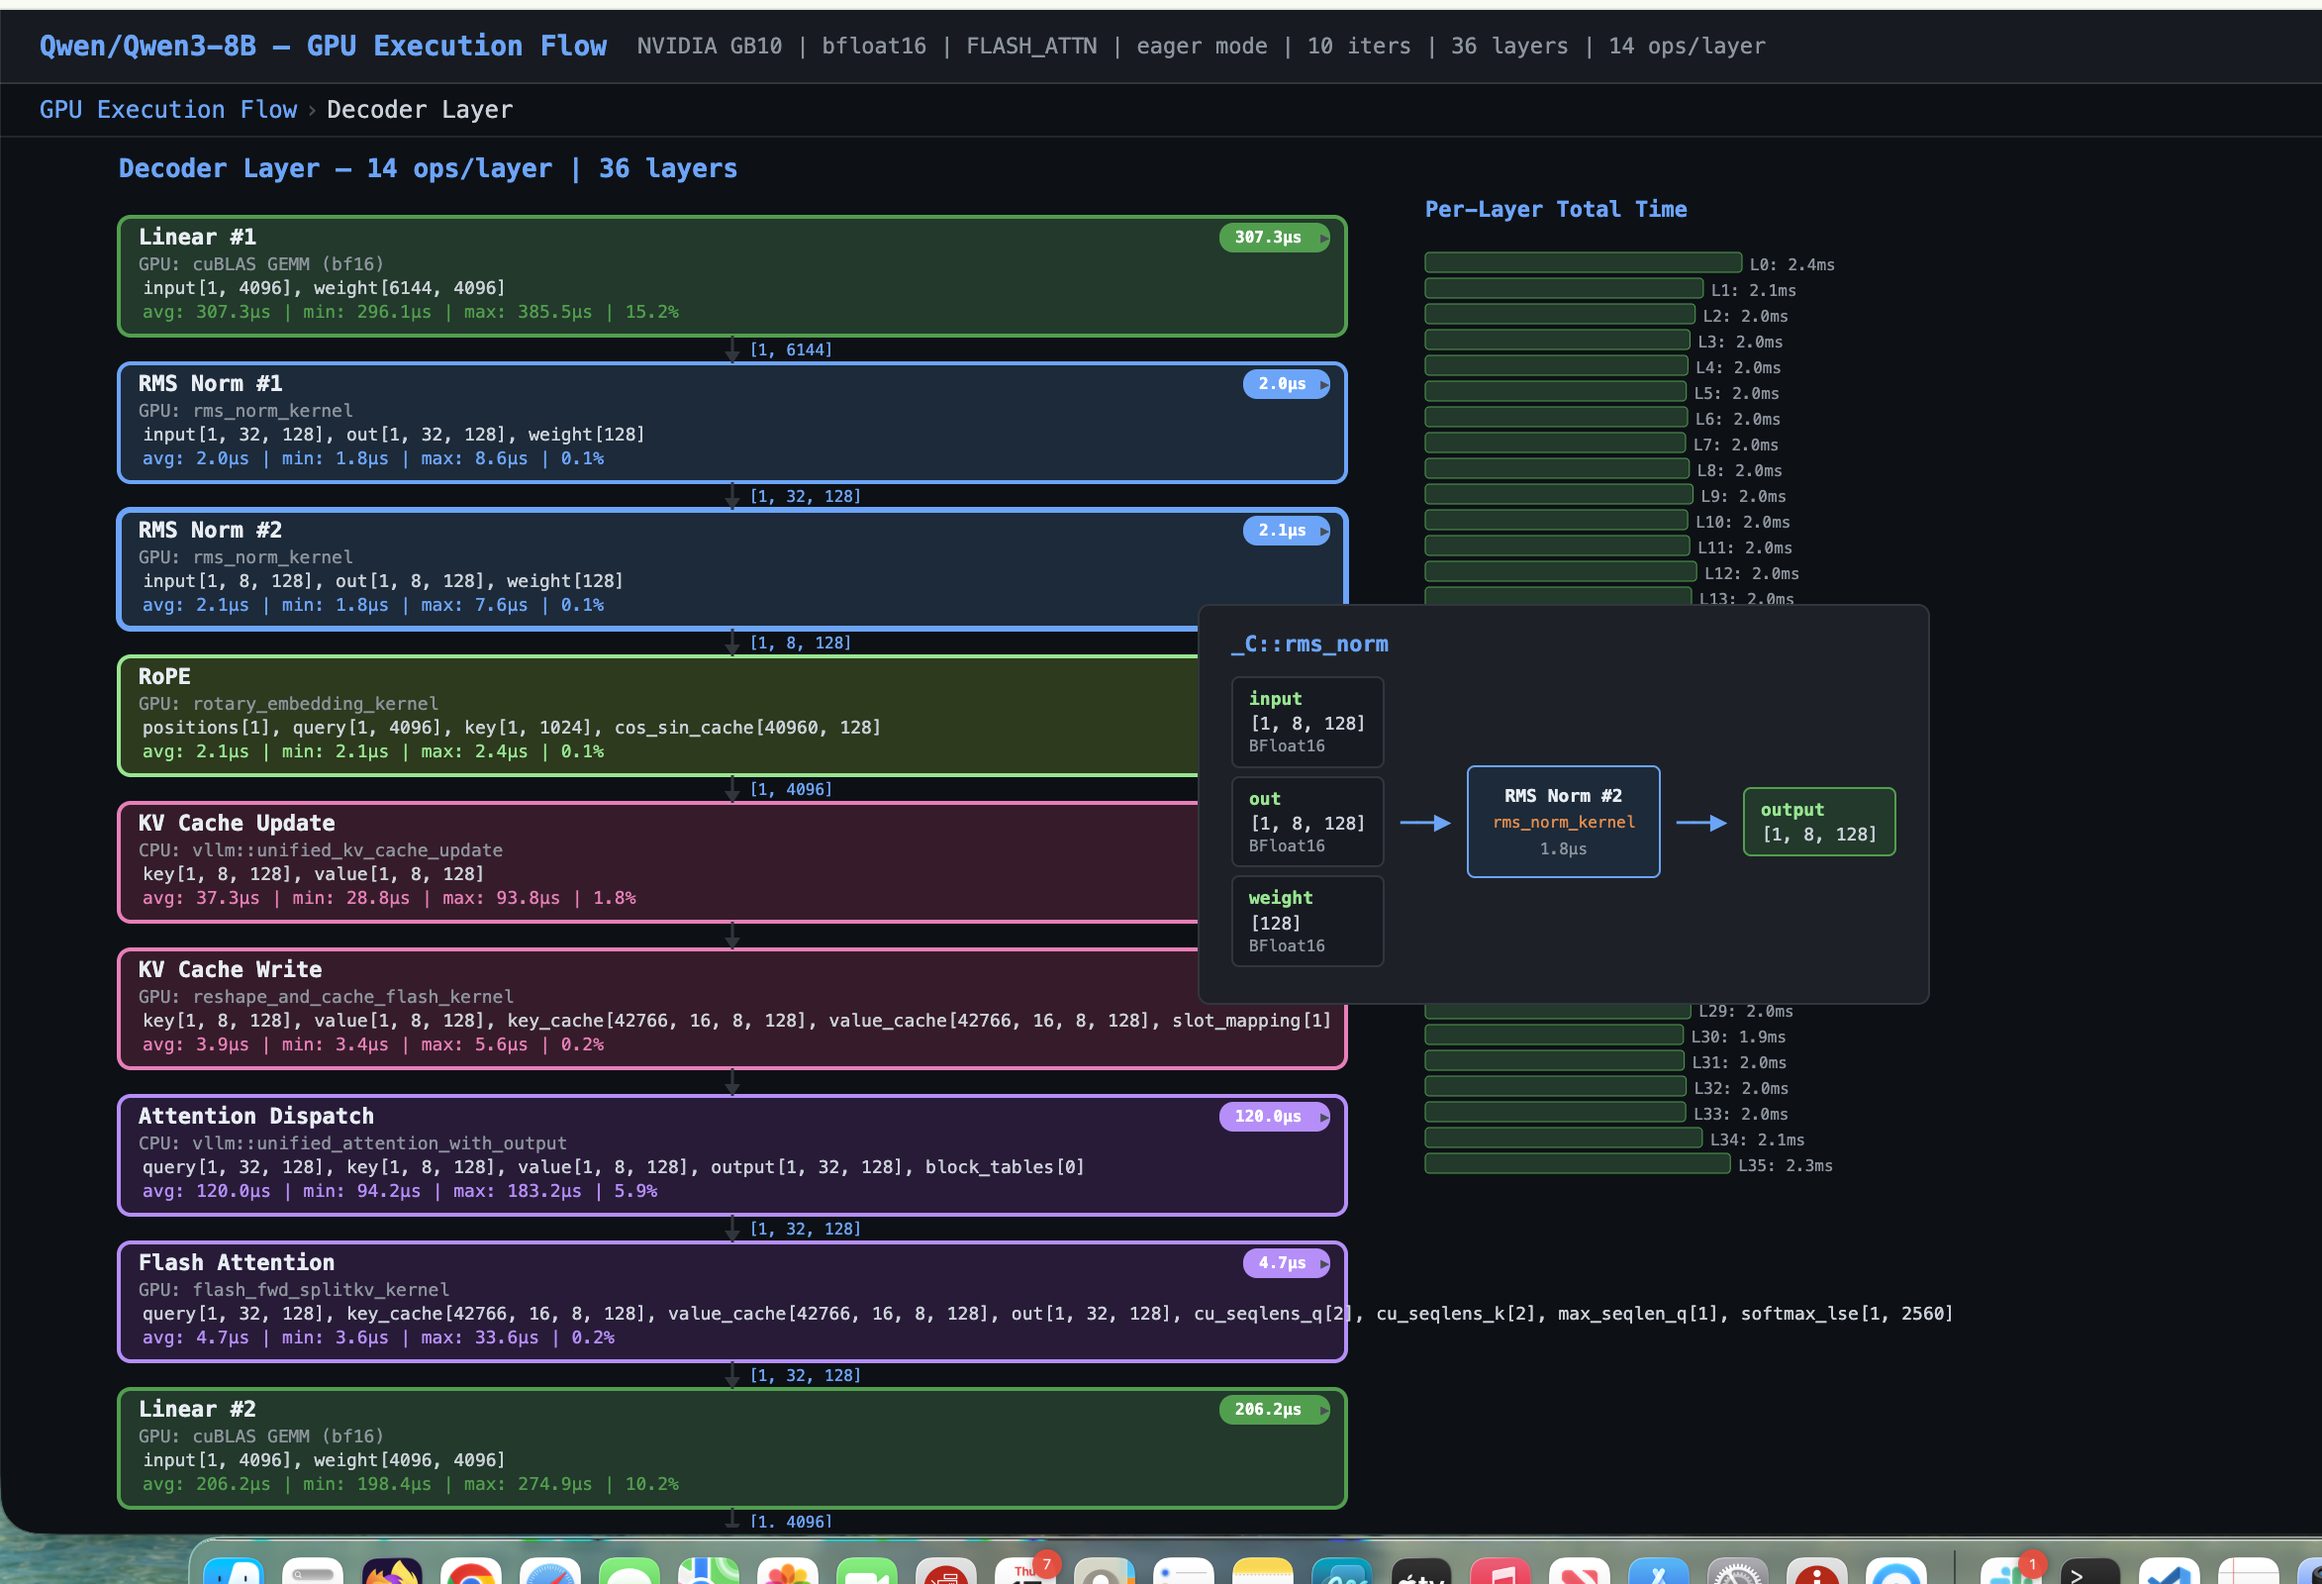
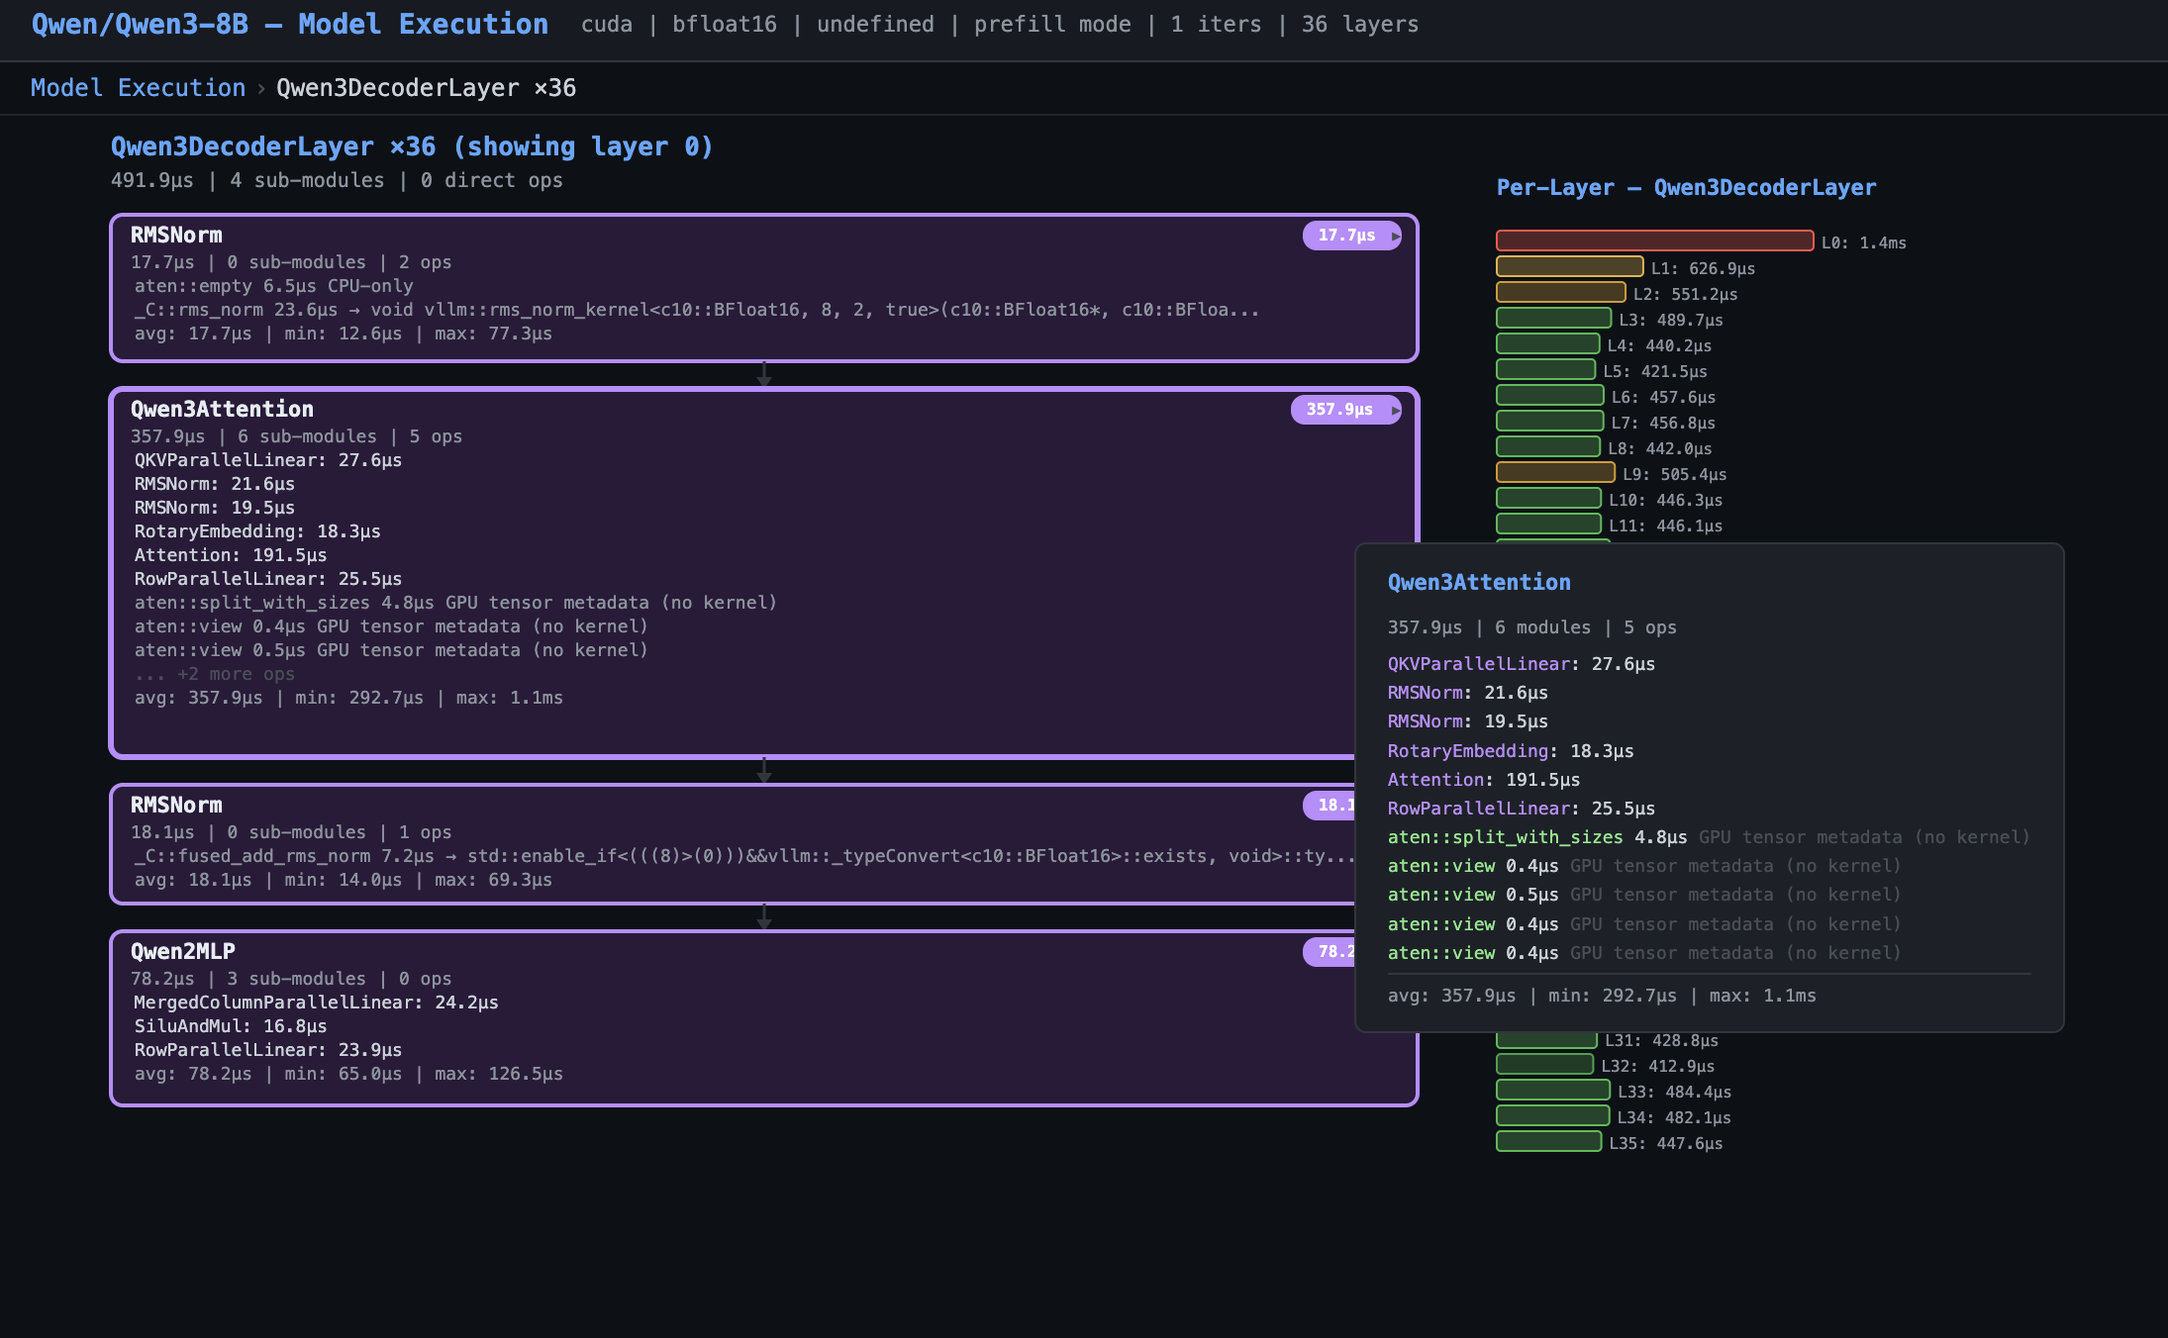
Update README, add architecture diagrams, and ignore raw trace JSONs

diff --git a/README.md b/README.md
@@ -33,7 +33,7 @@ This automated, hardware-aware framework dynamically analyzes model topologies a
 * [ ] NCU Kernel Profiling: Parse NVIDIA Nsight Compute metric exports (SM occupancy, memory bandwidth, block fragmentation).
 * [ ] Full Model Diagram: Expand model_viz.html to generate full end-to-end model dependency graphs.
 * [ ] **Fusion Mapping & Visual Overlay**: Render piecewise fusion boundaries in `model_viz.html` (e.g., grouping eager sub-nodes into fused piecewise blocks or highlighting candidate clusters).
-* [ ] **Optimization Recommender for Agents & Engineers**: Generate automated candidate reports (e.g., *"Layer 12 RMSNorm candidate for CUDA fusion"*) to feed directly into `KernelAgent` or guide manual engineering workflows.
+* [ ] **Optimization Recommender for Agents & Engineers**: Generate automated candidate reports (e.g., *"Layer 12 RMSNorm candidate for CUDA fusion"*) to feed directly into agents or guide manual engineering workflows.
 
 ### Future Scope (Long Term): Multi-Node & Distributed Scaling Support
 
